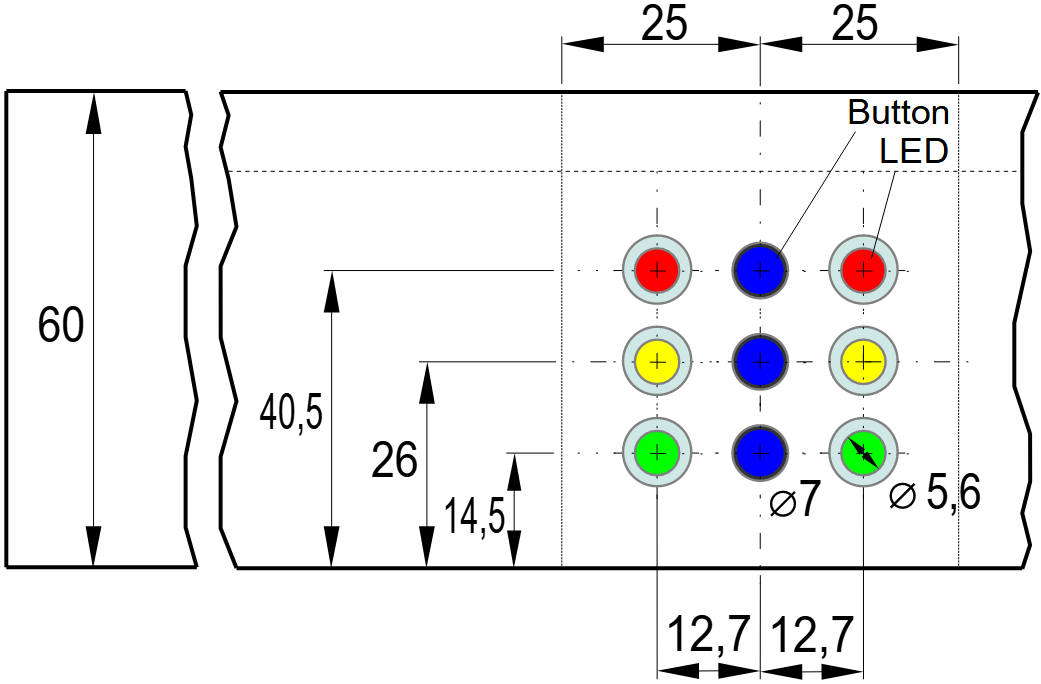
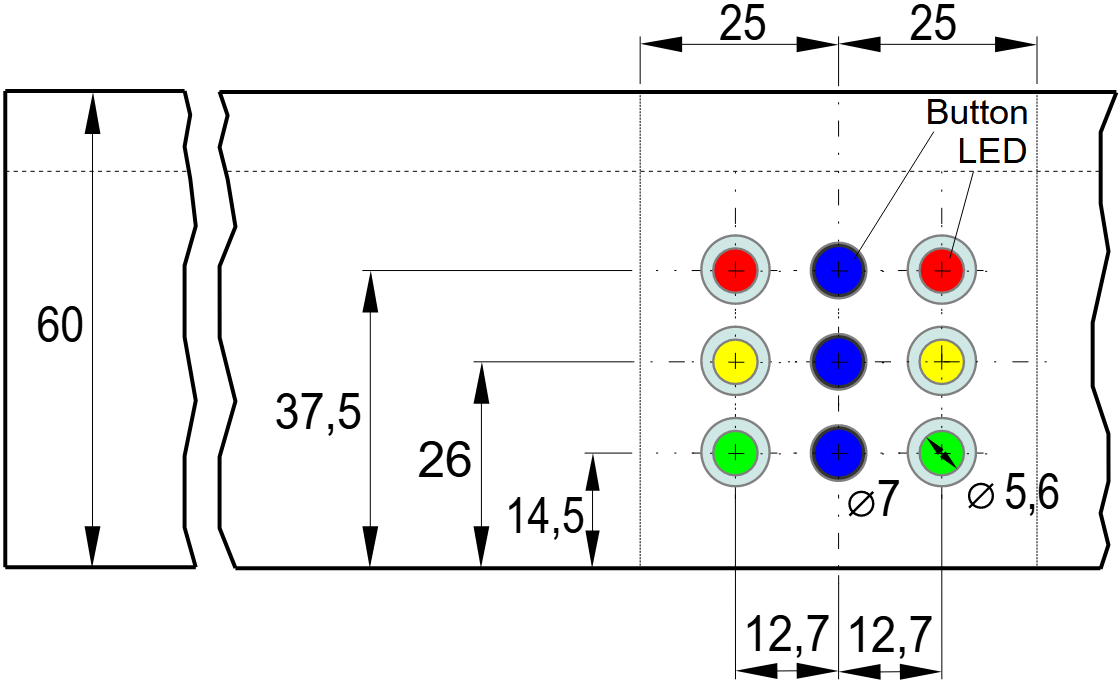
Update Modul 12

diff --git a/use/module12/LIESMICH.md b/use/module12/LIESMICH.md
@@ -106,7 +106,7 @@ __Pappelsperrholz 5 mm (oder 4 mm)__
 |   1   | 980 x 250 mm² | Bahndamm  |   
 
 __Kleinteile__   
-20x Schraube M3 x 30 mm Senkkopf, Kreuzschlitz, selbstschneidend (Fa. Spax 4 003530 021251)   
+20x Schraube M3 x 30 mm Senkkopf, Kreuzschlitz, selbstschneidend (zB Fa. Spax 4 003530 021251)   
 4x Pappelsperrholz 10 mm stark, 70 x 35 mm² für die Halterungen der Sub-D-Stecker.   
 4x kleine Holzstücken 10 x 10 x 50 mm³ als zusätzliche Auflager für die Grundplatte.   
 
@@ -181,14 +181,16 @@ Die Seitenteile sind an eine (ehemalige?) Norm von n-spur.at angelehnt, wobei da
 ![Modul_OstWest_1_Mitte.png](./images/300_OstWest_1_Mitte.png "Modul_OstWest_1_Mitte")   
 _Bild 5: Maße für die Seitenteile Ost und West (Modulbreite 250mm, ein in der Mitte liegendes Gleis)._   
 
-Die vier 8mm-Bohrungen dienen zum Verbinden der Module mit 8 mm-Flügelschrauben und Flügelmuttern.   
-Die linken und rechten vier 2 mm-Bohrungen dienen zum Anschrauben der Nord- und Südwand. Sie müssen mit einem Kegelsenker erweitert werden, damit die Senkkopfschrauben nicht vorstehen.   
-Die oberen zwei 2mm-Bohrungen dienen zum Fixieren der Gelände-Grundplatte (falls erforderlich). Auch sie müssen mit einem Kegelsenker erweitert werden, damit die Senkkopfschrauben nicht vorstehen.   
-Die 60x20 mm²-Ausnehmung dient zum Durchführen des 25-poligen Sub-D-Steckers.   
+* Ausgangsmaterial: Pappelsperrholzplatte 10 mm, 250 x 70 mm²   
+* Die vier 8mm-Bohrungen dienen zum Verbinden der Module mit 8 mm-Flügelschrauben und Flügelmuttern.   
+* Die linken und rechten vier 2 mm-Bohrungen dienen zum Anschrauben der Nord- und Südwand. Sie müssen mit einem Kegelsenker erweitert werden, damit die Senkkopfschrauben nicht vorstehen.   
+* Die oberen zwei 2mm-Bohrungen dienen zum Fixieren der Gelände-Grundplatte (falls erforderlich). Auch sie müssen mit einem Kegelsenker erweitert werden, damit die Senkkopfschrauben nicht vorstehen.   
+* Die 60x20 mm²-Ausnehmung dient zum Durchführen des 25-poligen Sub-D-Steckers.   
+
 Mit besonderer Vorsicht ist die Ausnehmung für das Gleis zu fertigen. Mit einer Laubsäge wird die Ausnehmung etwas zu klein ausgeschnitten und mit einer Dreiecksfeile so lange erweitert, bis ein Fleischmann-Schotterbett-Gleis gerade (klemmend) hineinpasst und auch mittig positioniert ist.   
 
 ## 2.3 Rahmenteil Ra2 (Nord)
-Der Rahmenteil „Nord“ enthält lediglich dreimal zwei Bohrungen mit 2 mm Durchmesser, die wieder mit einem  Kegelsenker erweitert werden. Hier werden die Querverstrebungen verschraubt.   
+Der Rahmenteil „Nord“ enthält lediglich dreimal zwei Bohrungen mit 2 mm Durchmesser, die wieder mit einem  Kegelsenker erweitert werden. Hier werden innen die Querverstrebungen verschraubt.   
 
 ![Modul_Nord_980mm](./images/300_Nord_980mm.png "Modul_Nord_980mm")   
 _Bild 6: Seitenteil Nord Ra2_   
@@ -200,7 +202,7 @@ Das Schaltbild der Dreiwegweiche W3 zeigt nach rechts (6 Bohrungen), das der ers
 ![Modul_Süd_980mm](./images/300_Sued_980mm.png "Modul_Süd_980mm")   
 _Bild 7: Maße für den Rahmenteil Süd (Ra4)_   
 
-Die genaue Lage der Bohrungen zeigt das folgende Bild:   
+Die genaue Lage aller Bohrungen für einen Schaltblock zeigt das folgende Bild, wobei je nach Schaltblock-Typ nur die entsprechenden Bohrungen benötigt werden (!):   
 
 ![Bohrposition LEDs und Taster](./images/300_drill_position_LED_button.png "Bohrposition LEDs und Taster")   
 _Bild 8: Maße für die LED- und Taster-Bohrungen_   
@@ -215,13 +217,19 @@ Bei Verwendung eines 3D-gedruckten Rahmens benötigt man eine rechteckförmige A
 ![OLED_Button_frame](./images/300_OLED_Button_frame.png "OLED_Button_frame")   
 _Bild 10: Maße für den Rahmen der OLED-Anzeige mit Taster_   
 
-Nach dem Bohren aller LED- und Taster-Bohrungen sollte man gleich die Halterungen für die Steuerblöcke montieren und testen, ob die Bohrungen für die Steuerblöcke passen.   
+Nach dem Bohren aller LED- und Taster-Bohrungen sollte man gleich die Halterungen für die Steuerblöcke montieren und testen, ob die Bohrungen für die Steuerblöcke passen. Der Abstand der Blöcke von der Unterseite des Rahmens beträgt 5,5 mm.   
+
+Die Position der Schrauben für die Steuerblock-Halterungen auf der Innenseite des Rahmens ist folgendermaßen festgelegt:   
+![Schraubposition für Blockhalter](./images/300_blockholder_mountingholes.png "Schraubposition für Blockhalter")   
+_Bild 11: Position der Schrauben für die Steuerblock-Halterungen_   
+
+
 
 ## 2.5 Querverstrebung Ri1 bis Ri3
 Die Querverstrebungen enthalten verschiedene Durchbrüche für Kabel und zwei Bohrungen für die Halterung der 25-poligen Sub-D-Stecker.   
 
 ![Verstrebung](./images/300_Verstrebung_230mm.png "Verstrebung")   
-_Bild 11: Querverstrebungen Ri1 bis Ri3_
+_Bild 12: Querverstrebungen Ri1 bis Ri3_
 
 ## 2.6 Zusammenbau des Rahmens
 Nachdem alle Teile des Rahmens bearbeitet wurden, kann dieser zusammengeschraubt werden.   
